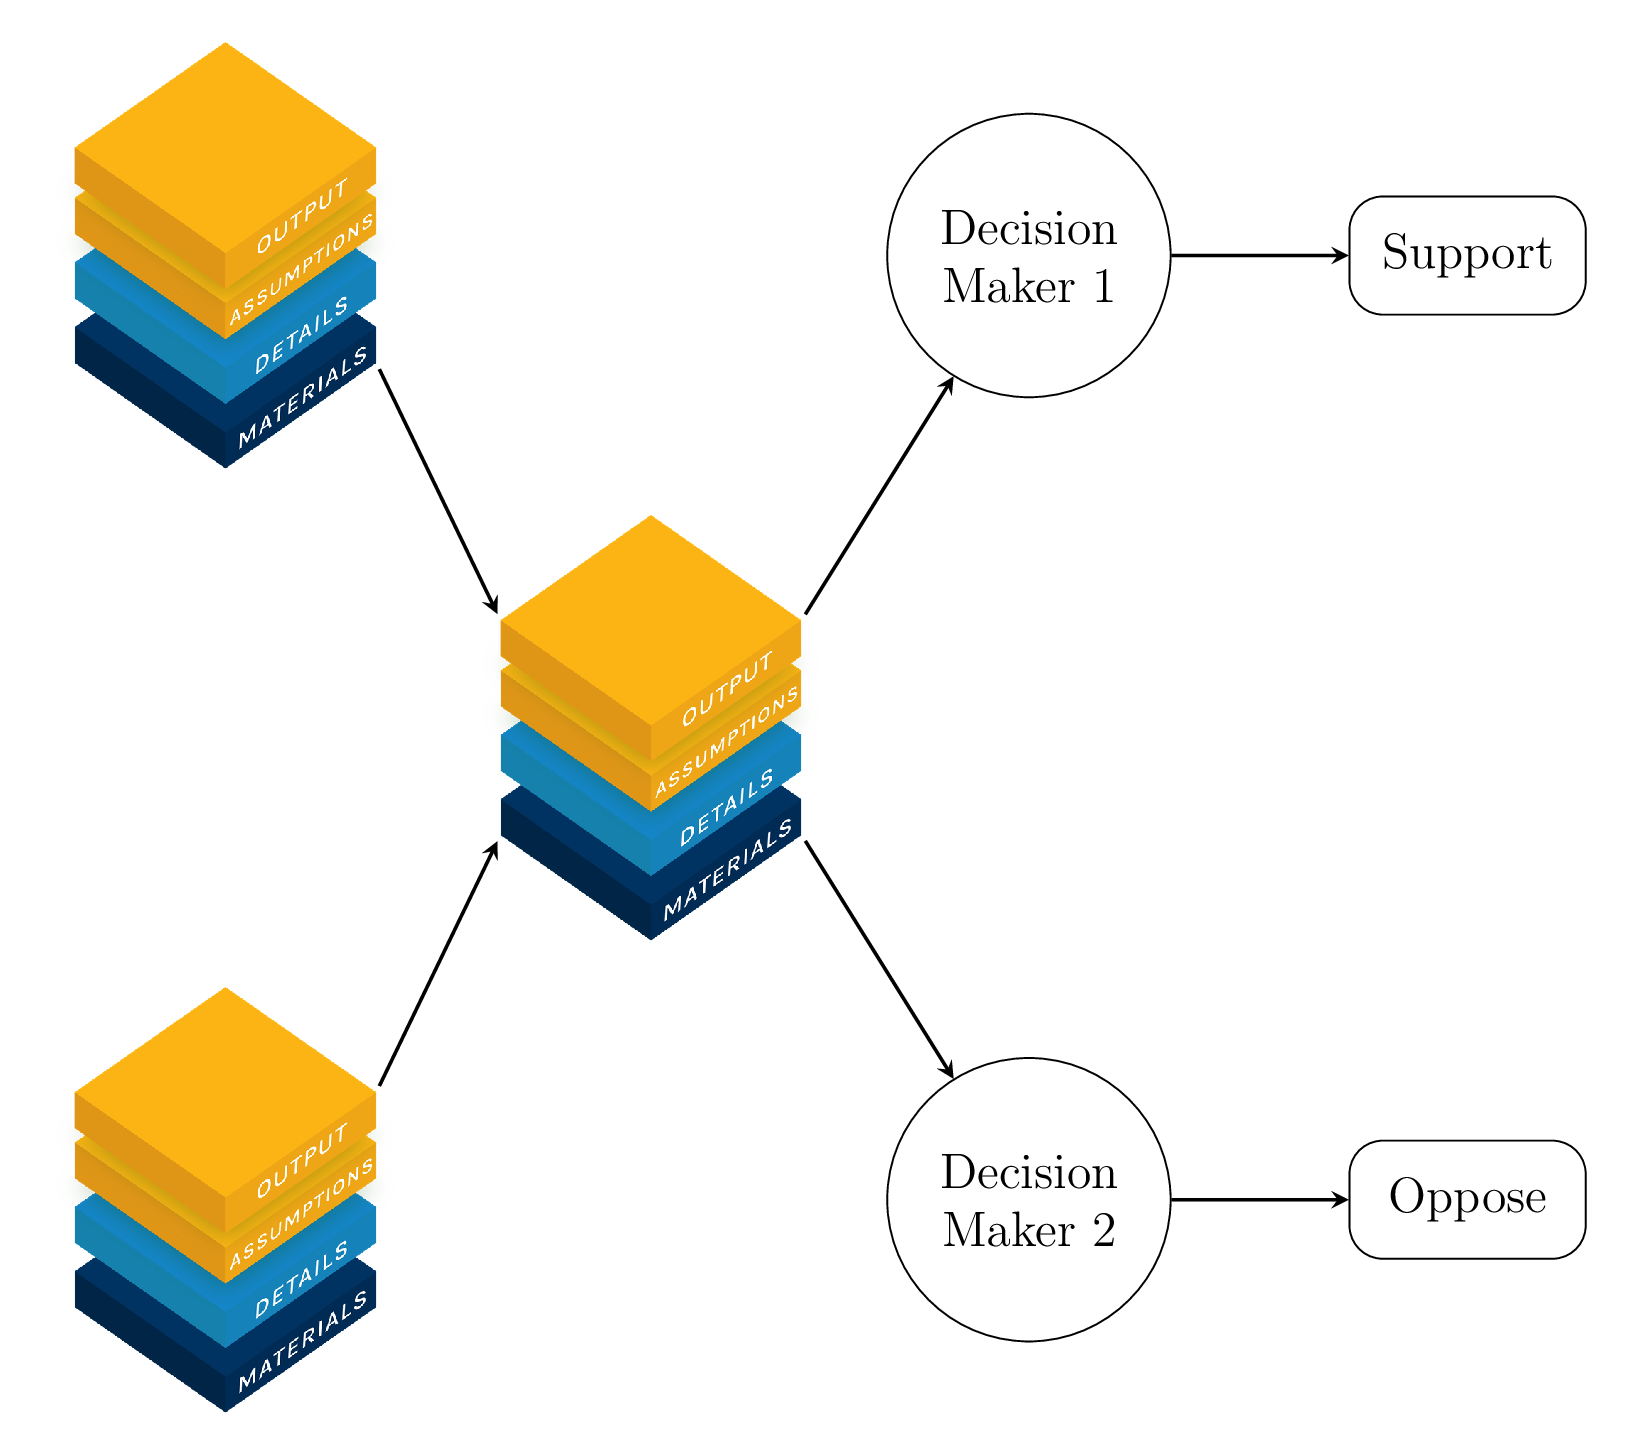
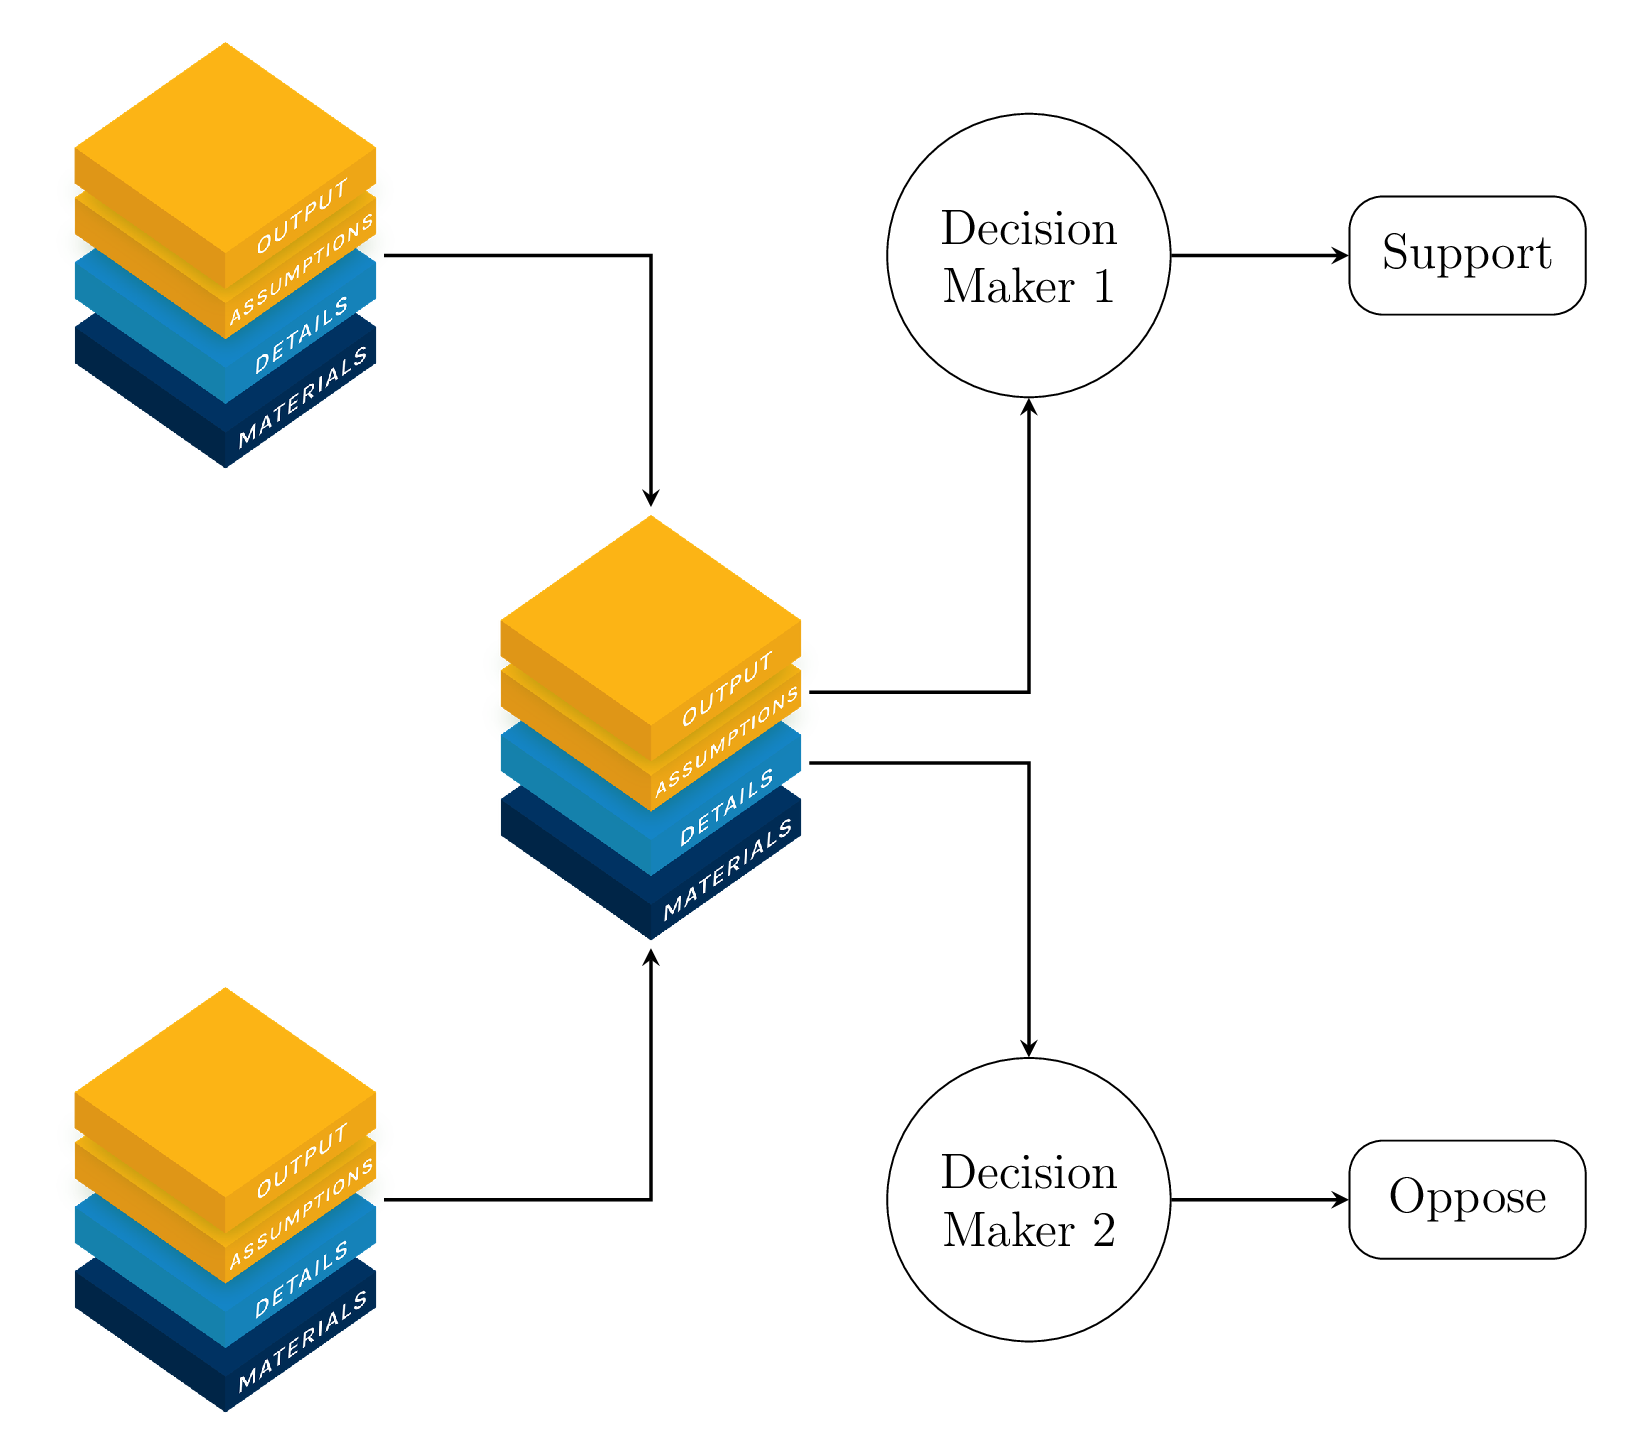
opa-third variant: right-angle connectors
Claude-Session: https://claude.ai/code/session_01L4psq6EUyQQH3oidkRQF81

diff --git a/src/evidence-to-policy-competing.tex b/src/evidence-to-policy-competing.tex
@@ -119,12 +119,14 @@
 % One frame for every from-analysis variant (the 3.6cm cubes reach x = -1.55 and
 % y = +/-4.2), so all of them have the same size and line up on slides.
 \ifdefined\thirdopa
-% Arrows meet the icons' visible corners (the icon's side corners sit 1.27cm left or right of
-% its centre and 0.9cm above or below it), not the transparent edge of the image.
-\draw[arr, shorten <=2pt, shorten >=2pt] ($(PA1.center)+(1.27,-0.9)$) -- ($(PAM.center)+(-1.27,0.9)$);
-\draw[arr, shorten <=2pt, shorten >=2pt] ($(PA3.center)+(1.27,0.9)$)  -- ($(PAM.center)+(-1.27,-0.9)$);
-\draw[arr, shorten <=2pt] ($(PAM.center)+(1.27,0.9)$)  -- (PM1);
-\draw[arr, shorten <=2pt] ($(PAM.center)+(1.27,-0.9)$) -- (PM2);
+% Right-angle connectors that meet the icons' visible edges (an icon's sides sit 1.27cm left
+% and right of its centre, its top and bottom points 1.8cm above and below it): each outer
+% analysis runs right, then turns down or up into the third OPA's top or bottom point; the
+% third OPA runs right from its side, then turns up or down into each decision maker.
+\draw[arr, shorten <=2pt, shorten >=2pt] ($(PA1.center)+(1.27,0)$) -| ($(PAM.center)+(0,1.8)$);
+\draw[arr, shorten <=2pt, shorten >=2pt] ($(PA3.center)+(1.27,0)$) -| ($(PAM.center)+(0,-1.8)$);
+\draw[arr, shorten <=2pt] ($(PAM.center)+(1.27,0.3)$)  -| (PM1.south);
+\draw[arr, shorten <=2pt] ($(PAM.center)+(1.27,-0.3)$) -| (PM2.north);
 \fi
 \ifdefined\fromanalysis\path ({\cubex-1.56},{\rowtop+1.81}) ({\cubex-1.56},{\rowbot-1.81});\fi
 \end{tikzpicture}
